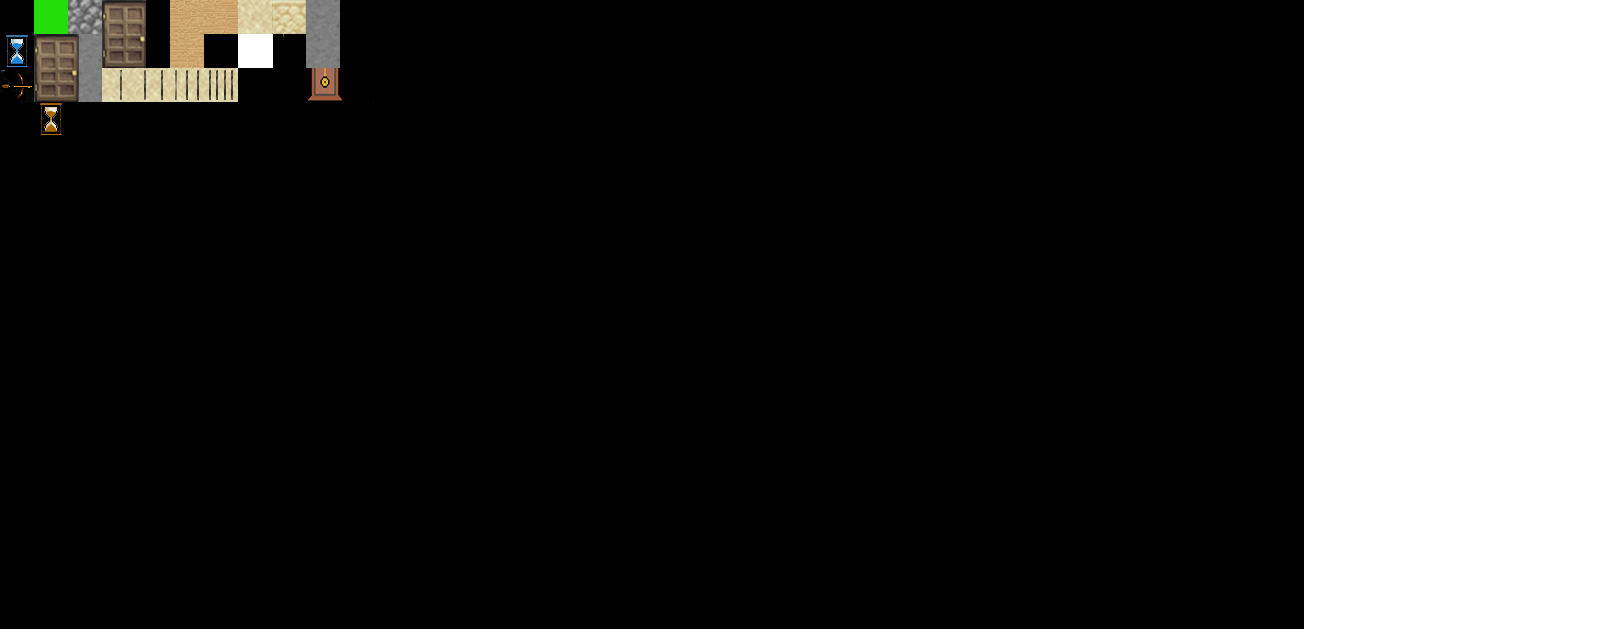
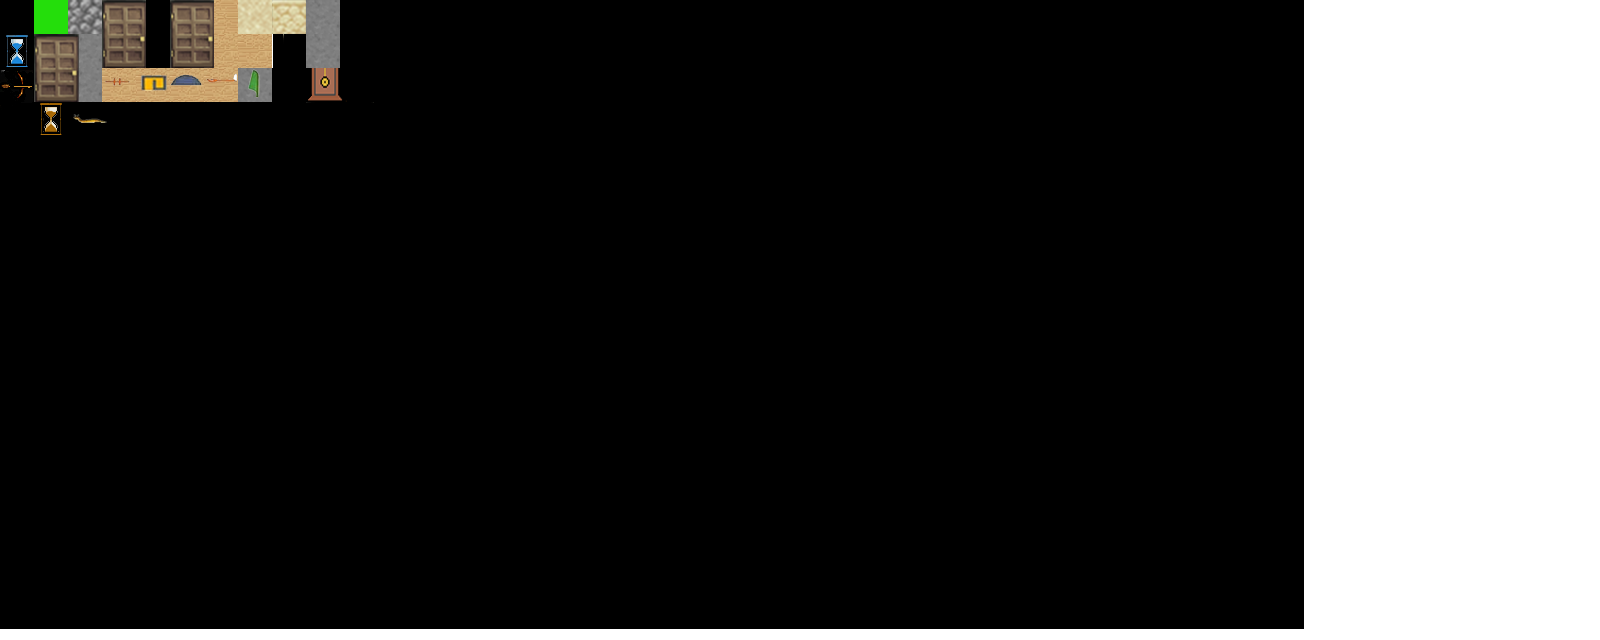
afwfafagagav basta

Changed region(s): [[0.0625, 0.0, 0.1875, 0.1562]]

diff --git a/src/scenes/Level2.ts b/src/scenes/Level2.ts
@@ -104,6 +104,25 @@ this.scene.get('Keypad').events.on('wake', () => {
     }
 
     update(time: number, delta: number): void {
+        const cameraWidth = 2 * this.player.width; // Larghezza della telecamera
+        const cameraHeight = 2 * this.player.height; // Altezza della telecamera
+
+        // Imposta la posizione della telecamera centrata sul giocatore
+        const cameraX = Math.max(0, this.player.x - cameraWidth / 2); // Posizione X della telecamera
+        const cameraY = Math.max(0, this.player.y - cameraHeight / 2); // Posizione Y della telecamera
+
+        // Imposta la dimensione e la posizione della telecamera
+        this.mainCam.setSize(cameraWidth, cameraHeight);
+        this.mainCam.setPosition(cameraX, cameraY);
+
+        const maskGraphics = this.add.graphics();
+            maskGraphics.fillStyle(0x000000); // Colore nero
+            maskGraphics.fillRect(0, 0, this.map.widthInPixels, this.map.heightInPixels); // Copri l'intera mappa
+            maskGraphics.setAlpha(0.7); // Opacità del nero, puoi regolare il valore per ottenere l'effetto desiderato
+            maskGraphics.setDepth(10); // Assicurati che sia sopra tutti gli altri elementi
+            maskGraphics.fillRect(cameraX - 100, cameraY - 100, cameraWidth, cameraHeight); // Rendi nero l'area intorno al giocatore
+            maskGraphics.setDepth(10); // Assicurati che sia sopra tutti gli altri elementi
+
          // Incrementa il tempo trascorso
          this.elapsedTime += delta;
 

diff --git a/src/scenes/GameData.ts b/src/scenes/GameData.ts
@@ -4,7 +4,7 @@ export let GameData: any = {
     gameWidth: 1024,
     gameHeight: 600,
     bgColor: "#ffffff",
-    debug: true,
+    debug: false,
   },
 
   preloader: {
